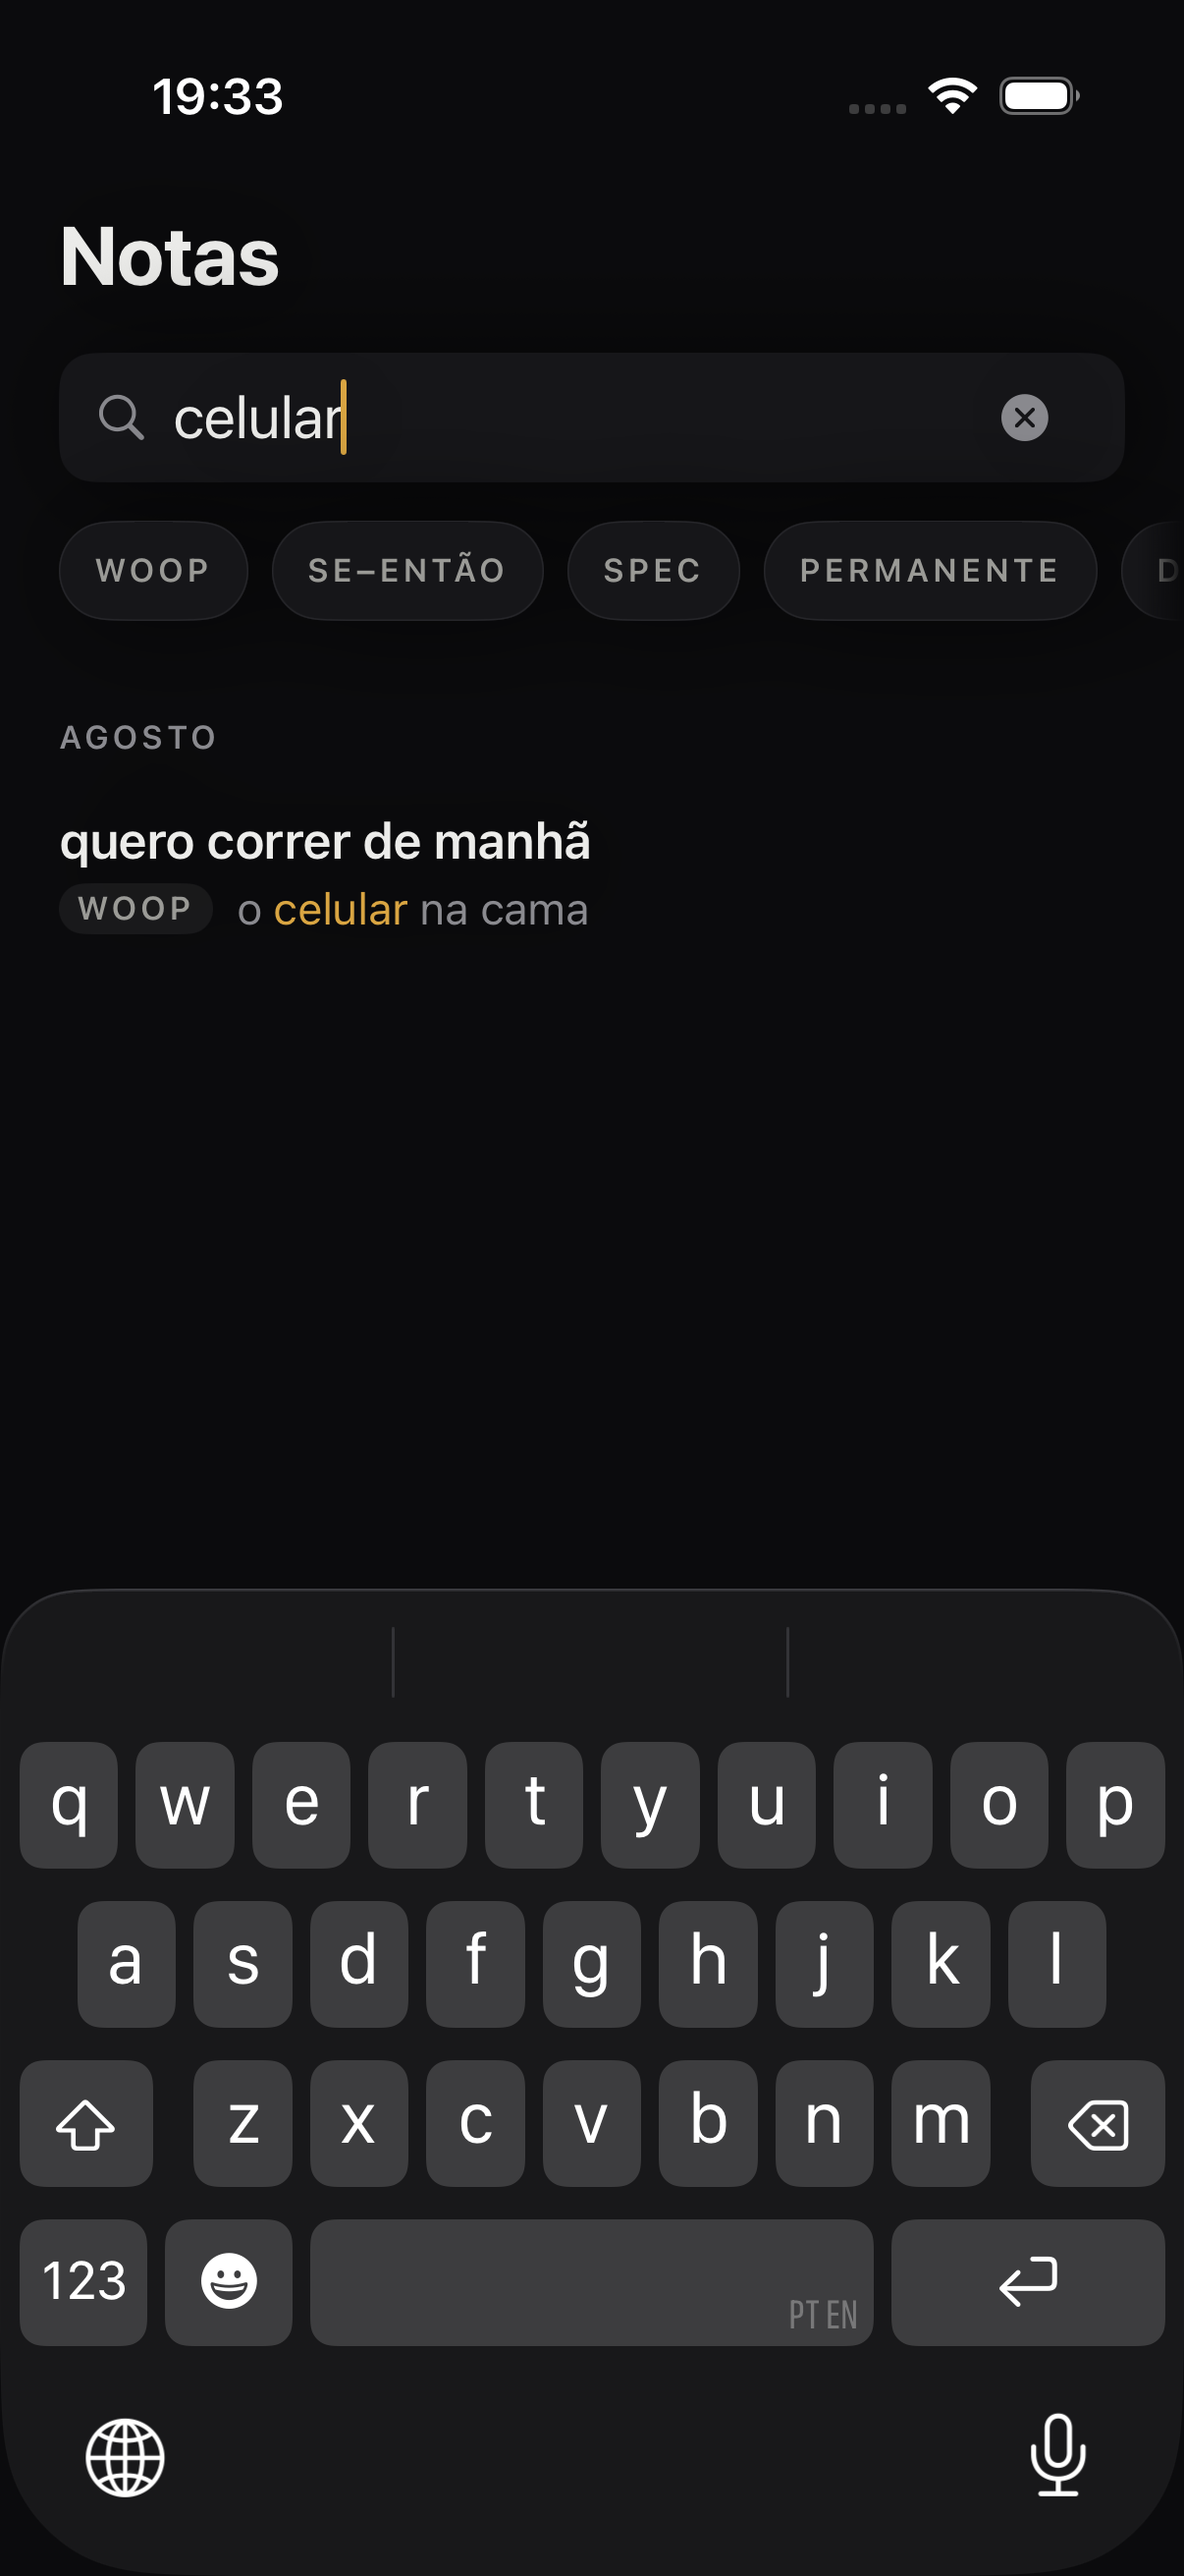
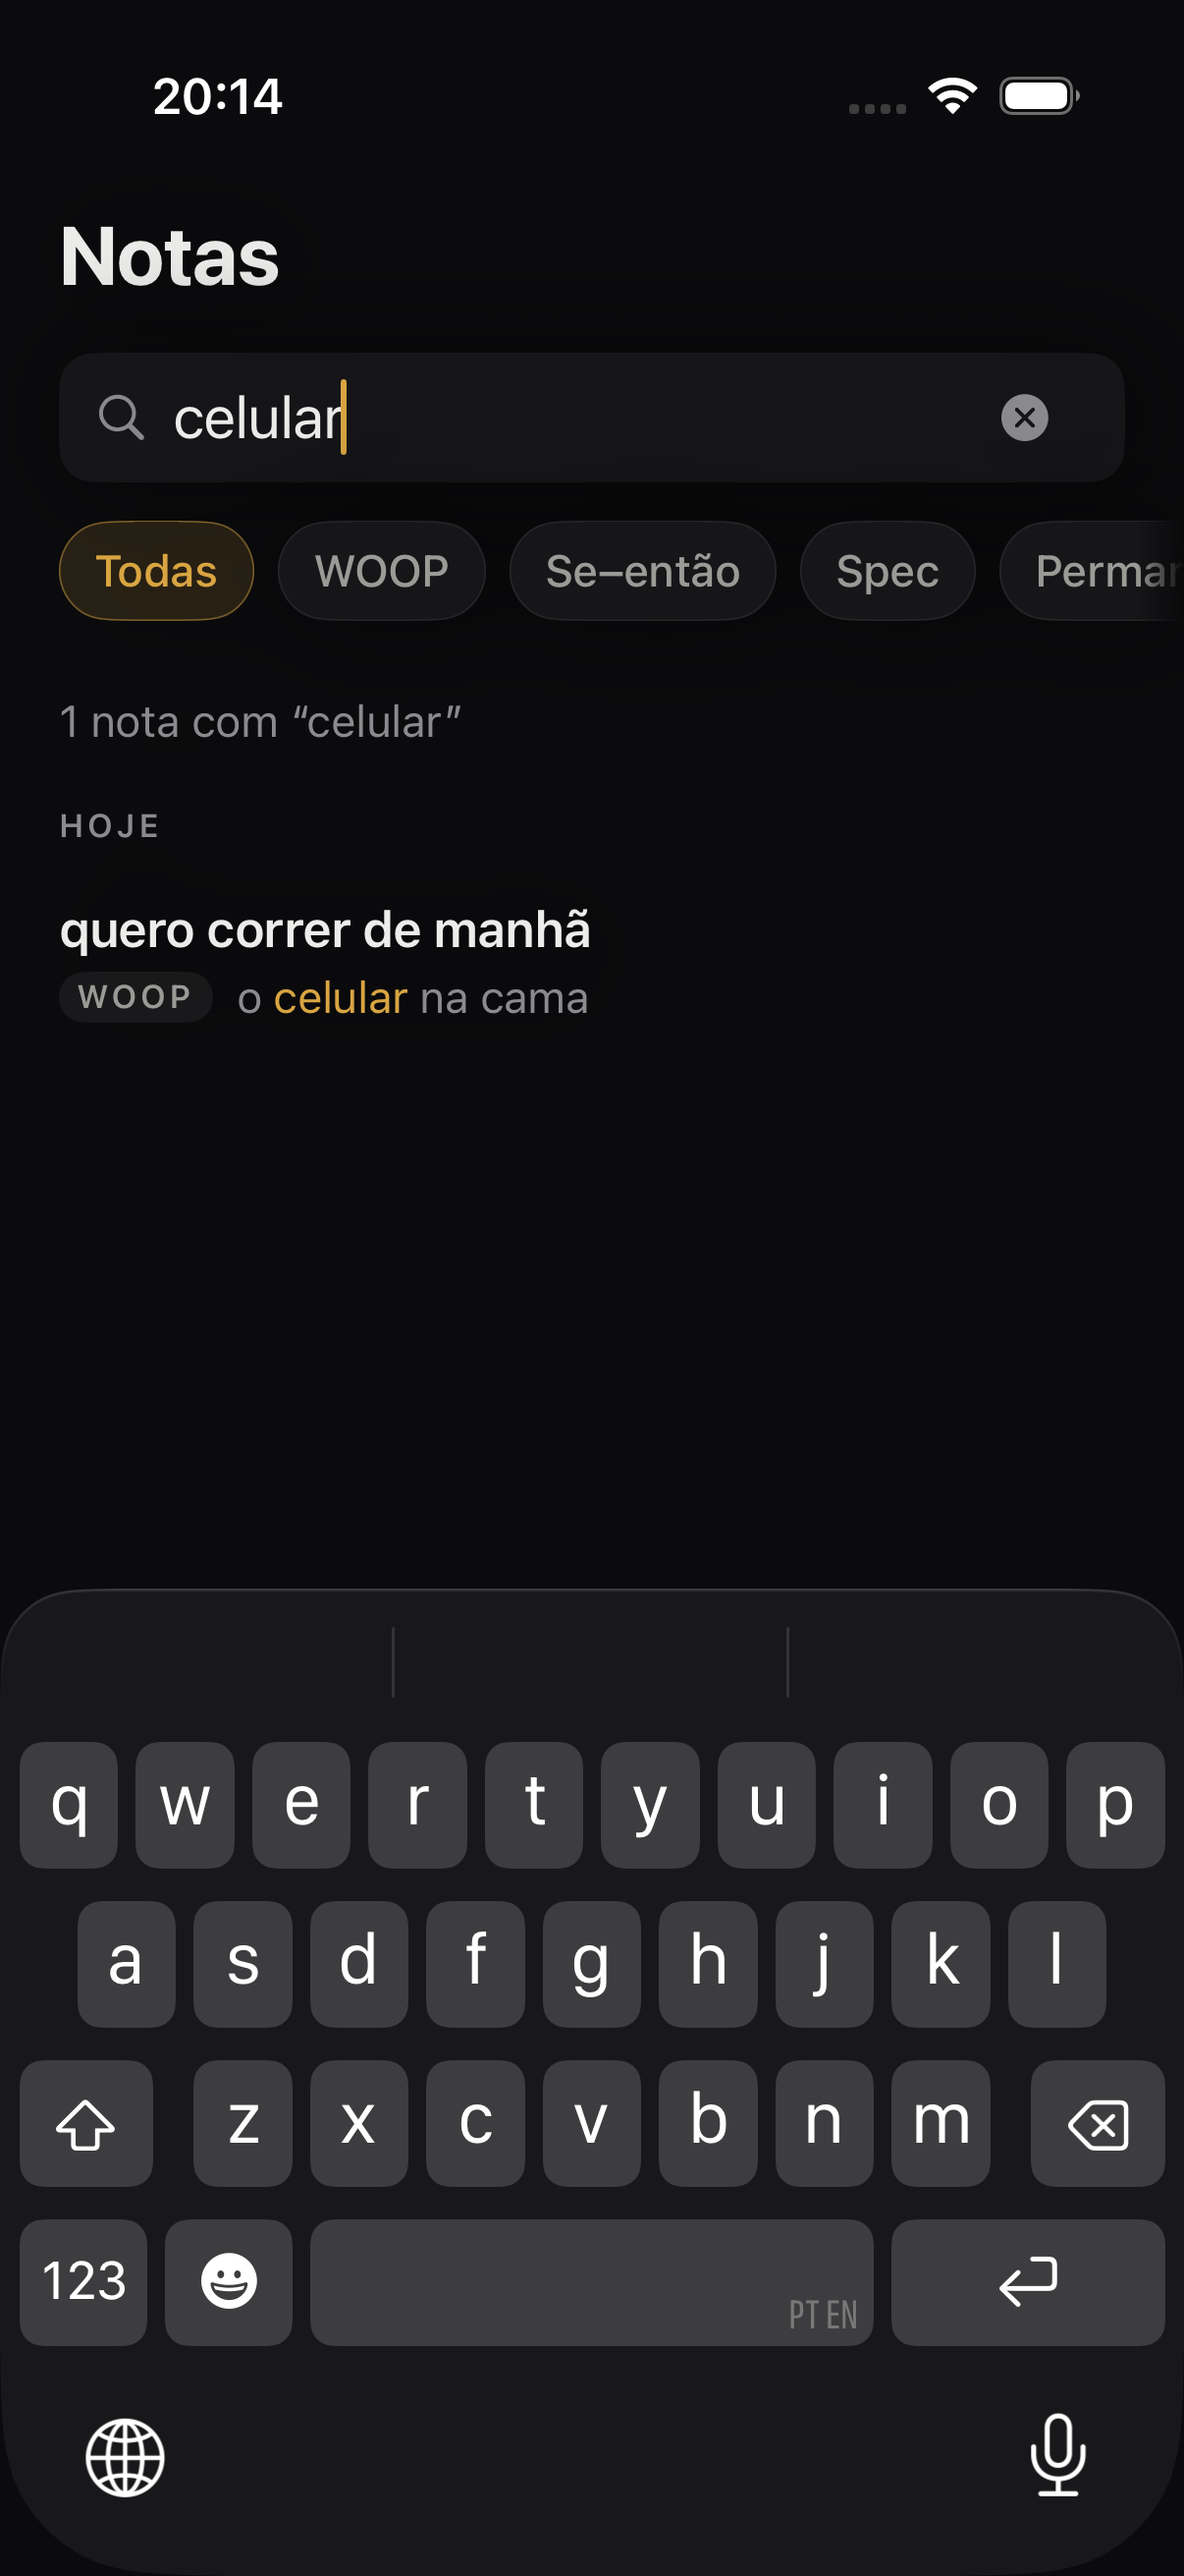
polimento rodada 11: leva grande de P2/P3 das tres auditorias
NOTAS
- chips em caixa NORMAL: all-caps e o modo de leitura mais lento para palavras
  de 4+ letras ("PERMANENTE", "SE-ENTAO")
- chip "Todas" como SAIDA do filtro: filtrar era caminho sem volta obvia
- a secao de hoje se chama HOJE e o carimbo "hoje" some das linhas dentro dela:
  cabecalho e linha diziam a mesma coisa duas vezes
- contagem de resultados no TOPO da lista ("3 notas com X"), nao no rodape onde
  ninguem le (serial-position-effect + zeigarnik: o autor nao sabia se a busca
  tinha terminado)
- vazio que ensina: "nenhuma nota com X." em vez de "nada com X"

PAGINA
- estado ANALISANDO: com conta ligada a classificacao vai a rede e a tela ficava
  muda (doherty-threshold). Agora um ponto ambar pulsando e "lendo..."
- "Anexar" era verbo transitivo sem objeto -> "Anexar arquivo"
- a acao secundaria do cartao deixa de ser ambar: dois ambares dividiam a
  atencao e o olho nao sabia qual era o caminho

BARRA
- "Nova" era adjetivo orfao numa fileira de substantivos de lugar -> "Escrever"

PERFIL
- cada secao vira REGIAO propria: o agrupamento estava so no espacamento, e
  "DADOS" lia como parte do bloco de cima (law-of-common-region)
- "corpus" e palavra nossa, nao do autor: "Exportar todas as notas (.md)" e
  "Importar notas (.md)", agora simetricos

TESTES
- 28 flows passam a tocar a pagina por ID. Tocar pelo ROTULO "Pagina" acertava
  outro elemento e o texto saia com um marcador de lista ("1. abc") - o que me
  fez perseguir um bug de app que nao existia.

diff --git a/Traco/Notas/NotasView.swift b/Traco/Notas/NotasView.swift
@@ -79,6 +79,31 @@ struct NotasView: View {
     private var chips: some View {
         ScrollView(.horizontal, showsIndicators: false) {
             HStack(spacing: 8) {
+                // "Todas" é a saída: sem ela, filtrar era um caminho sem volta
+                // óbvio (critique-affordance)
+                Button {
+                    Toque.selecao()
+                    withAnimation(.easeOut(duration: 0.25)) { filtro = nil }
+                } label: {
+                    Text("Todas")
+                        .font(Tema.meta.weight(.medium))
+                        .foregroundStyle(filtro == nil ? Tema.ambar : Tema.tintaSuave)
+                        .padding(.horizontal, 12)
+                        .padding(.vertical, 8)
+                        .frame(minHeight: 34)
+                        .background(Capsule().fill(filtro == nil ? Tema.ambarSuave : Tema.superficie))
+                        .overlay {
+                            Capsule().strokeBorder(
+                                filtro == nil ? Tema.ambar.opacity(0.5) : Tema.linha,
+                                lineWidth: 0.5
+                            )
+                        }
+                }
+                .frame(minHeight: Tema.alvo)
+                .contentShape(Rectangle())
+                .buttonStyle(PressaoDiscreta())
+                .accessibilityIdentifier("filtro-todas")
+                .accessibilityAddTraits(filtro == nil ? [.isSelected] : [])
                 ForEach(FiltroNotas.allCases) { item in
                     Button {
                         Toque.selecao()
@@ -86,9 +111,8 @@ struct NotasView: View {
                             filtro = filtro == item ? nil : item
                         }
                     } label: {
-                        Text(item.rawValue.uppercased())
-                            .font(Tema.label)
-                            .tracking(Tema.trackingLabel)
+                        Text(item.rawValue)
+                            .font(Tema.meta.weight(.medium))
                             .foregroundStyle(filtro == item ? Tema.ambar : Tema.tintaSuave)
                             .padding(.horizontal, 12)
                             .padding(.vertical, 8)
@@ -154,6 +178,13 @@ struct NotasView: View {
             } else {
                 ScrollView {
                     LazyVStack(alignment: .leading, spacing: 0) {
+                        if !busca.isEmpty || filtro != nil {
+                            Text(contagem(visiveis.count))
+                                .font(Tema.meta)
+                                .foregroundStyle(Tema.tintaFraca)
+                                .padding(.top, 12)
+                                .accessibilityIdentifier("contagem-busca")
+                        }
                         // O arquivo tem tempo: seções por mês, não um pergaminho cego.
                         ForEach(meses(visiveis), id: \.titulo) { secao in
                             Text(secao.titulo)
@@ -171,13 +202,7 @@ struct NotasView: View {
                                 }
                             }
                         }
-                        if visiveis.count > 6 {
-                            Text("\(visiveis.count) notas")
-                                .font(Tema.meta)
-                                .foregroundStyle(Tema.tintaFraca)
-                                .frame(maxWidth: .infinity)
-                                .padding(.top, 16)
-                        }
+
                     }
                     .padding(.horizontal, Tema.margem)
                 }
@@ -200,7 +225,11 @@ struct NotasView: View {
         for nota in notas {
             let ano = cal.component(.year, from: nota.criadaEm)
             f.dateFormat = ano == anoAtual ? "LLLL" : "LLLL yyyy"
-            let titulo = f.string(from: nota.criadaEm).uppercased()
+            // a seção de hoje se chama HOJE: repetir "agosto" no cabeçalho e
+            // "hoje" em cada linha gasta a única informação temporal útil
+            let titulo = cal.isDateInToday(nota.criadaEm)
+                ? "HOJE"
+                : f.string(from: nota.criadaEm).uppercased()
             if grupos[titulo] == nil { ordem.append(titulo) }
             grupos[titulo, default: []].append(nota)
         }
@@ -209,8 +238,17 @@ struct NotasView: View {
 
     private var vazioTitulo: String {
         if filtro == .trancadas { return "nenhuma trancada." }
-        if !busca.isEmpty { return "nada com “\(busca)”" }
-        return "nada aqui."
+        if !busca.isEmpty { return "nenhuma nota com “\(busca)”." }
+        return "nada aqui ainda."
+    }
+
+    /// A busca não dizia quantas achou: o autor não sabia se tinha terminado
+    /// (zeigarnik-effect).
+    private func contagem(_ n: Int) -> String {
+        if !busca.isEmpty {
+            return n == 1 ? "1 nota com “\(busca)”" : "\(n) notas com “\(busca)”"
+        }
+        return n == 1 ? "1 nota" : "\(n) notas"
     }
 
     private func botaoNota(_ nota: Nota) -> some View {
@@ -263,9 +301,12 @@ struct NotasView: View {
                                 .padding(.vertical, 2)
                                 .background(Color.white.opacity(0.06), in: Capsule())
                         }
-                        DestaqueBusca.texto(subtitulo(nota), termo: busca, base: Tema.tintaFraca)
-                            .font(Tema.meta)
-                            .lineLimit(1)
+                        let sub = subtitulo(nota)
+                        if !(sub == "hoje" && busca.isEmpty) {
+                            DestaqueBusca.texto(sub, termo: busca, base: Tema.tintaFraca)
+                                .font(Tema.meta)
+                                .lineLimit(1)
+                        }
                     }
                 }
             }

diff --git a/Traco/Perfil/PerfilView.swift b/Traco/Perfil/PerfilView.swift
@@ -25,9 +25,9 @@ struct PerfilView: View {
             TituloTela("Perfil")
             ScrollView {
                 VStack(alignment: .leading, spacing: Tema.entreSecoes) {
-                    conta
-                    ajustes
-                    dados
+                    conta.emCartao()
+                    ajustes.emCartao()
+                    dados.emCartao()
                     Spacer(minLength: 8)
                 }
                 .padding(.horizontal, Tema.margem)
@@ -180,16 +180,16 @@ struct PerfilView: View {
     private var dados: some View {
         VStack(alignment: .leading, spacing: Tema.entreItens) {
             rotulo("DADOS")
-            linhaAcao("Exportar o corpus (.md)") {
+            linhaAcao("Exportar todas as notas (.md)") {
                 corpusURL = Corpus.exportar(notas: notas)
             }
             .accessibilityIdentifier("exportar-corpus")
             .accessibilityHint("Gera um Markdown com as notas abertas. Trancadas nunca saem.")
             Rectangle().fill(Tema.linha).frame(height: 0.5)
-            linhaAcao("Importar .md") { importarMd = true }
+            linhaAcao("Importar notas (.md)") { importarMd = true }
                 .accessibilityIdentifier("importar-md")
                 .accessibilityHint("Traz notas de arquivos Markdown. Import nunca cria trancada.")
-            Text("O backup automático já grava no Arquivos a cada nota concluída.")
+            Text("O backup automático grava no app Arquivos a cada nota concluída — nada disso depende de nuvem nem de conta.")
                 .font(.footnote)
                 .foregroundStyle(Tema.tintaFraca)
         }
@@ -219,5 +219,15 @@ struct PerfilView: View {
             .font(Tema.label)
             .tracking(Tema.trackingLabel)
             .foregroundStyle(Tema.tintaFraca)
+    }
+}
+
+private extension View {
+    /// Seção com região própria: sobre preto, espaçamento sozinho não agrupa.
+    func emCartao() -> some View {
+        self
+            .frame(maxWidth: .infinity, alignment: .leading)
+            .padding(16)
+            .superficieElevada()
     }
 }

diff --git a/Traco/Pagina/PaginaView.swift b/Traco/Pagina/PaginaView.swift
@@ -12,6 +12,7 @@ struct PaginaView: View {
     @ScaledMetric(relativeTo: .body) private var corpoFolga: CGFloat = 9
     @State private var abrirArquivo = false
     @State private var chegou = false
+    @State private var pulso = false
 
     var body: some View {
         // §20: a navegação é da RAIZ. Este Empilha era resíduo da arquitetura
@@ -210,6 +211,21 @@ struct PaginaView: View {
             CartaoAnaliseView(cartao: cartao, sessao: sessao, aoAbrirCampos: { mostrarCampos = true })
                 .padding(.horizontal, 12)
                 .padding(.bottom, 12)
+        } else if sessao.analisando, !sessao.paginaVazia {
+            // o sinal de que ALGO está acontecendo — sem ele a tela fica muda
+            HStack(spacing: 8) {
+                Circle()
+                    .fill(Tema.ambar)
+                    .frame(width: 5, height: 5)
+                    .opacity(pulso ? 1 : 0.25)
+                    .animation(.easeInOut(duration: 0.7).repeatForever(autoreverses: true), value: pulso)
+                Text("lendo…")
+                    .font(Tema.meta)
+                    .foregroundStyle(Tema.tintaSuave)
+            }
+            .frame(maxWidth: .infinity, minHeight: 54)
+            .onAppear { pulso = true }
+            .accessibilityIdentifier("analisando")
         } else if !sessao.paginaVazia {
             bottomBar
         }
@@ -279,9 +295,9 @@ struct PaginaView: View {
                     .foregroundStyle(Tema.tintaSuave)
                     .accessibilityLabel("Recordar")
                     .accessibilityHint("Esconde a nota e cobra a memória")
-                Button("Anexar") { abrirArquivo = true }
+                Button("Anexar arquivo") { abrirArquivo = true }
                     .foregroundStyle(Tema.tintaSuave)
-                    .accessibilityLabel("Anexar")
+                    .accessibilityLabel("Anexar arquivo")
                     .accessibilityHint("Foto, vídeo, áudio, gravar ou arquivo")
                     .accessibilityIdentifier("abrir-arquivo")
             }

diff --git a/Traco/App/Sessao.swift b/Traco/App/Sessao.swift
@@ -34,6 +34,9 @@ final class Sessao {
     var recordarCampos: [String: String] = [:]
     var timerEsgotou = false
     /// SPEC §8: o fecho da expressiva (selar ou queimar) é escolha do autor.
+    /// A análise remota leva tempo de rede: sem sinal, a tela fica muda e o
+    /// app parece travado (doherty-threshold).
+    var analisando = false
     var fechoExpressiva: Int?
     /// A linha de sentido viaja até o salvar — nunca entra no texto selado.
     var sentidoPendente: String?
@@ -67,7 +70,9 @@ final class Sessao {
         let gestoAtual = gesto
         let camposAtuais = campos
         analiseTask?.cancel()
+        analisando = true
         analiseTask = Task { [weak self] in
+            defer { Task { @MainActor in self?.analisando = false } }
             // ADR 2026-08-31e: Grok é o padrão — mas só a VOZ do autor viaja
             // (Caderno.prosa tira mobiliário/anexos), nunca com forma aberta
             // (a lógica pós-forma é local) e nunca expressiva (selo).

diff --git a/Traco/App/BarraNavegacao.swift b/Traco/App/BarraNavegacao.swift
@@ -69,7 +69,7 @@ struct BarraNavegacao: View {
                         .frame(width: 38, height: 26)
                         .background(Tema.superficieAlta, in: Capsule())
                         .overlay(Capsule().strokeBorder(Tema.luzBorda, lineWidth: 0.5))
-                    Text("Nova")
+                    Text("Escrever")
                         .font(.caption2.weight(.semibold))
                         .tracking(0.4)
                         .foregroundStyle(Tema.tintaSuave)
@@ -79,7 +79,7 @@ struct BarraNavegacao: View {
             }
             .buttonStyle(PressaoDiscreta())
             .accessibilityIdentifier("nova-nota")
-            .accessibilityLabel("Nova nota")
+            .accessibilityLabel("Escrever uma nota nova")
             .accessibilityHint("Guarda esta e abre uma página em branco")
 
             ForEach(Aba.naBarra) { item in

diff --git a/Traco/Pagina/CartaoAnaliseView.swift b/Traco/Pagina/CartaoAnaliseView.swift
@@ -82,6 +82,7 @@ struct CartaoAnaliseView: View {
                         .accessibilityHint("Os campos da forma abrem numa folha; o seu texto fica intacto")
                     Button("Deixar como nota") { sessao.soltarForma() }
                         .buttonStyle(CompactoStyle())
+                        .foregroundStyle(Tema.tintaSuave)
                         .accessibilityIdentifier("soltar-forma")
                         .accessibilityHint("Desfaz a forma; o seu texto fica intacto")
                 }
